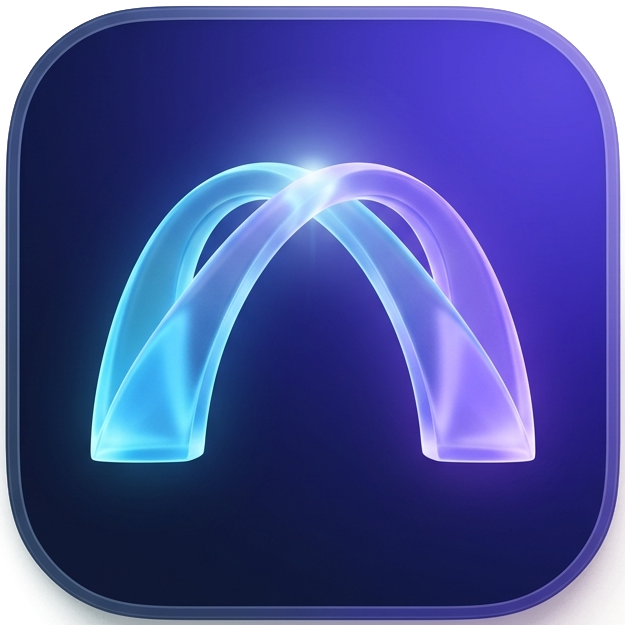
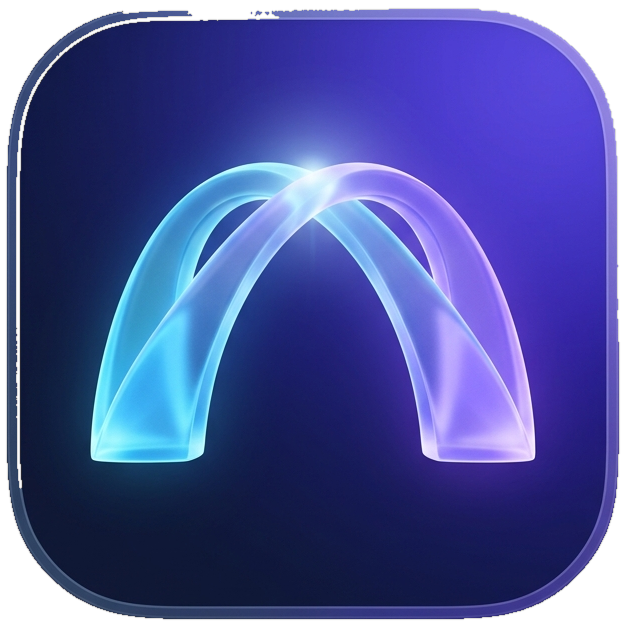
fix: 탭 아이콘 테두리에 남은 흰 빛을 걷어낸다.
둥근 심볼이 흰 배경에 맞춰 그려져 어두운 탭에서 띠처럼 보이던 가장자리를 투명하게 정리한다.

diff --git a/frontend/src/app/layout.tsx b/frontend/src/app/layout.tsx
@@ -12,7 +12,7 @@ export const metadata: Metadata = {
   },
   description: "연구의 질문이 AI와 만나는 곳. 연구 사례와 기술 동향을 보고 함께할 AI 전문가를 찾습니다.",
   icons: {
-    icon: [{ url: "/brand/labbridge-favicon.png", type: "image/png" }],
+    icon: [{ url: "/brand/labbridge-favicon.png?v=2", type: "image/png" }],
     apple: "/brand/labbridge-mark.png",
   },
 };

diff --git a/docs/qa/brand-logo-20261030/README.md b/docs/qa/brand-logo-20261030/README.md
@@ -14,7 +14,7 @@
 | `/cases` | 공통 헤더라 같은 심볼 |
 | 홈 링크 | 심볼+이름 클릭 시 홈으로 이동 |
 
-푸터에도 같은 마크를 28px로 넣었다. 헤더·푸터 글자는 단일 아치 워드마크, 홈 제목의 LabBridge는 이중 아치 워드마크다. 원본은 `shorts_assets/logo_proposals/wordmark_refinement_v5/`. 브라우저 탭 아이콘은 모서리 흰 여백을 투명 처리한 `/brand/labbridge-favicon.png`와 `frontend/src/app/icon.png`를 쓴다. 헤더·애플 아이콘은 기존 마크를 유지한다.
+푸터에도 같은 마크를 28px로 넣었다. 헤더·푸터 글자는 단일 아치 워드마크, 홈 제목의 LabBridge는 이중 아치 워드마크다. 원본은 `shorts_assets/logo_proposals/wordmark_refinement_v5/`. 브라우저 탭 아이콘은 흰 모서리와 흰 테두리 빛(매트)을 걷어 낸 `/brand/labbridge-favicon.png`와 `frontend/src/app/icon.png`를 쓴다. 헤더·애플 아이콘은 기존 마크를 유지한다.
 
 ## 하지 않은 것
 
